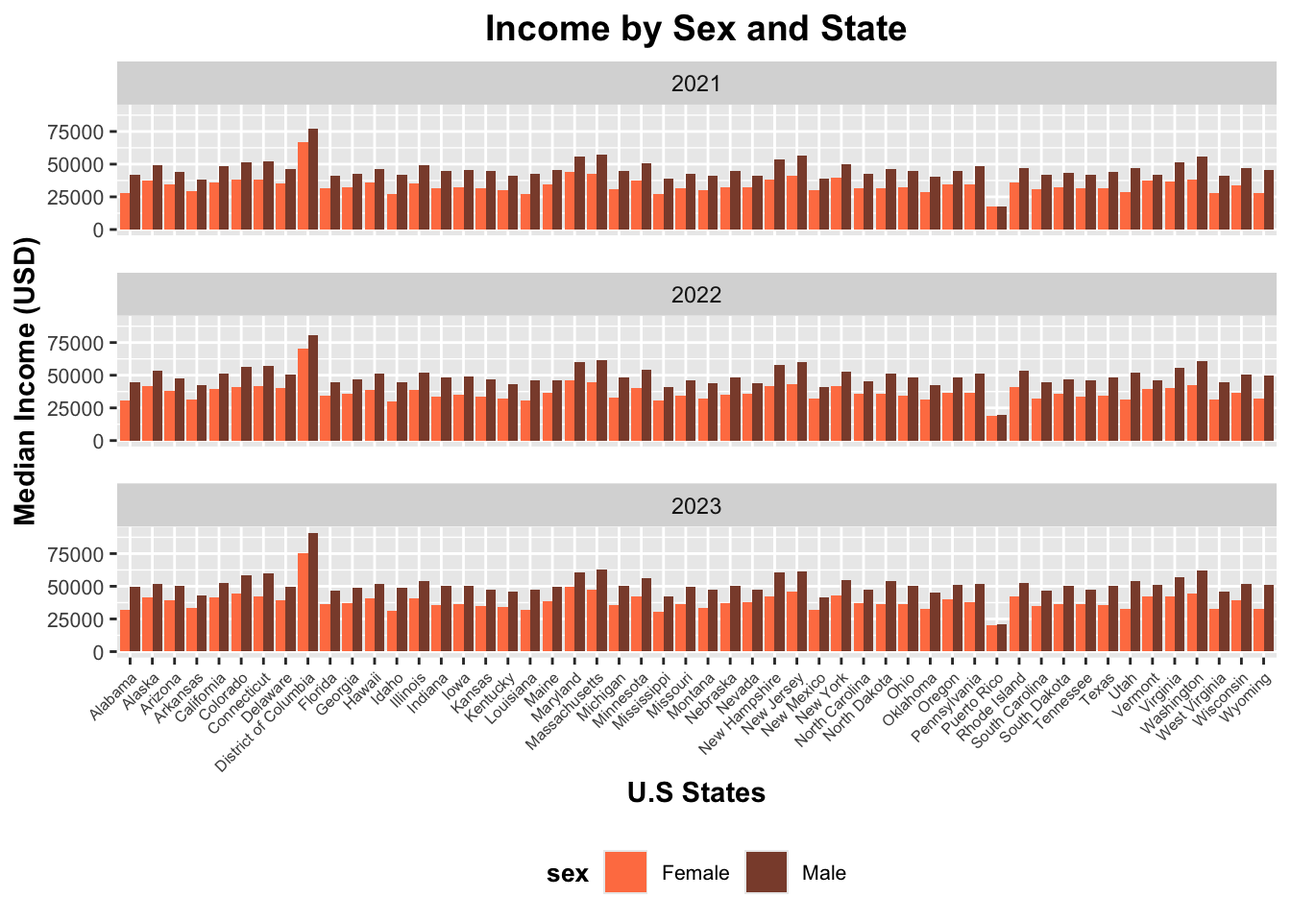
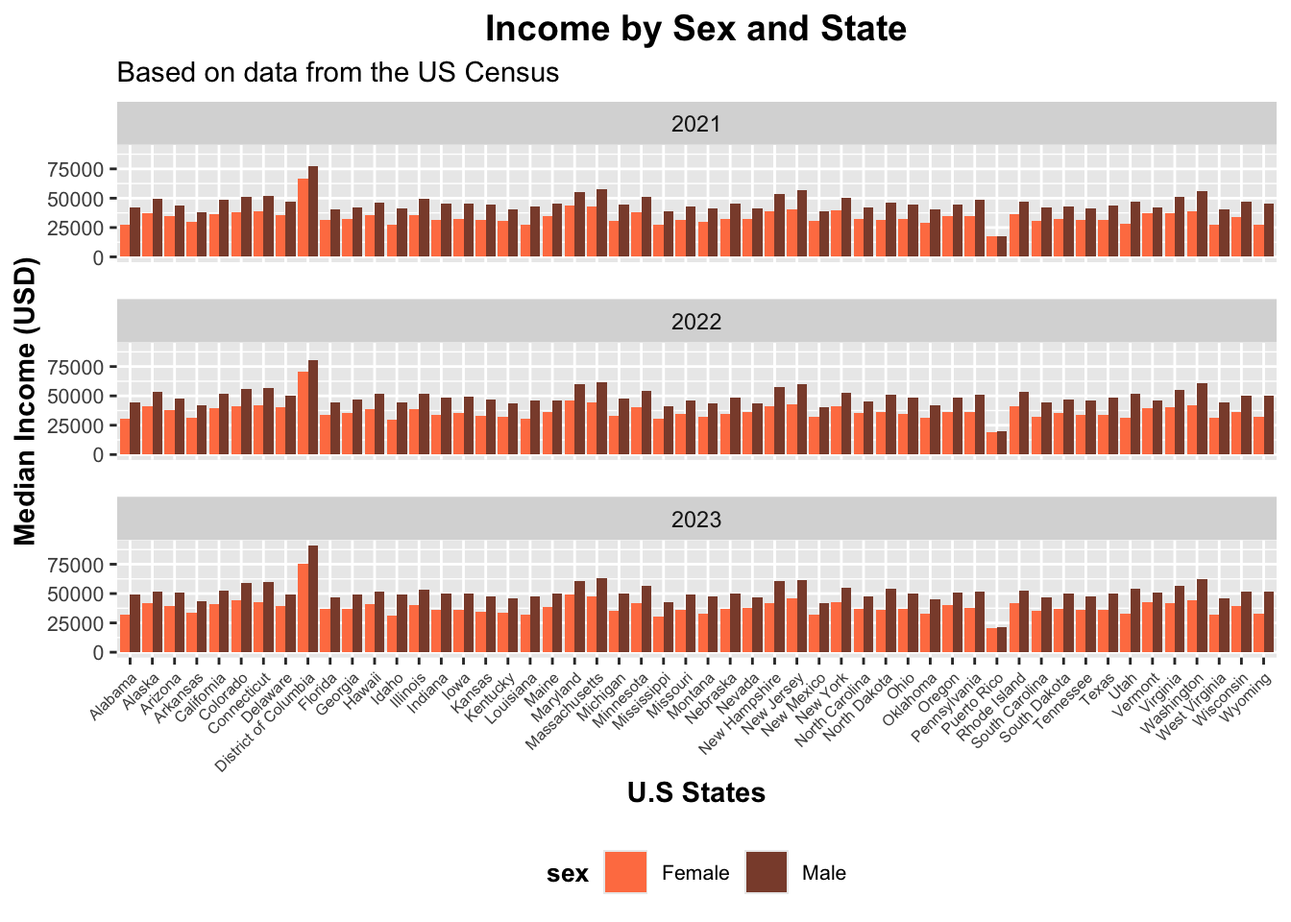
Part 1 Section 4 Edit captions

Changed region(s): [[0.0, 0.0625, 1.0, 0.6875]]

diff --git a/Project 2.html b/Project 2.html
@@ -349,24 +349,26 @@ The 1-year ACS provides data for geographies with populations of 65,000 and grea
 <span id="cb29-11"><a href="#cb29-11" aria-hidden="true" tabindex="-1"></a>  <span class="fu">geom_bar</span>(<span class="at">stat =</span> <span class="st">"identity"</span>, <span class="at">position =</span> <span class="st">"dodge"</span>) <span class="sc">+</span></span>
 <span id="cb29-12"><a href="#cb29-12" aria-hidden="true" tabindex="-1"></a>  <span class="fu">facet_wrap</span>(<span class="sc">~</span>year, <span class="at">ncol =</span> <span class="dv">1</span>) <span class="sc">+</span>  <span class="co"># Ensure facets are in one row</span></span>
 <span id="cb29-13"><a href="#cb29-13" aria-hidden="true" tabindex="-1"></a>  <span class="fu">labs</span>(<span class="at">title =</span> <span class="st">"Income by Sex and State"</span>, </span>
-<span id="cb29-14"><a href="#cb29-14" aria-hidden="true" tabindex="-1"></a>       <span class="at">x =</span> <span class="st">"U.S States"</span>, </span>
-<span id="cb29-15"><a href="#cb29-15" aria-hidden="true" tabindex="-1"></a>       <span class="at">y =</span> <span class="st">"Median Income (USD)"</span>) <span class="sc">+</span></span>
-<span id="cb29-16"><a href="#cb29-16" aria-hidden="true" tabindex="-1"></a>  <span class="fu">scale_x_discrete</span>(<span class="at">labels =</span> <span class="cf">function</span>(x) <span class="fu">str_wrap</span>(x, <span class="at">width =</span> <span class="dv">25</span>)) <span class="sc">+</span> </span>
-<span id="cb29-17"><a href="#cb29-17" aria-hidden="true" tabindex="-1"></a>  <span class="fu">scale_fill_manual</span>(</span>
-<span id="cb29-18"><a href="#cb29-18" aria-hidden="true" tabindex="-1"></a>    <span class="at">values =</span> <span class="fu">c</span>(<span class="st">"female_income"</span> <span class="ot">=</span> <span class="st">"coral"</span>, <span class="st">"male_income"</span> <span class="ot">=</span> <span class="st">"salmon4"</span>),</span>
-<span id="cb29-19"><a href="#cb29-19" aria-hidden="true" tabindex="-1"></a>    <span class="at">labels =</span> <span class="fu">c</span>(<span class="st">"Female"</span>, <span class="st">"Male"</span>)</span>
-<span id="cb29-20"><a href="#cb29-20" aria-hidden="true" tabindex="-1"></a>  ) <span class="sc">+</span></span>
-<span id="cb29-21"><a href="#cb29-21" aria-hidden="true" tabindex="-1"></a>  <span class="fu">theme_grey</span>() <span class="sc">+</span></span>
-<span id="cb29-22"><a href="#cb29-22" aria-hidden="true" tabindex="-1"></a>  <span class="fu">theme</span>(</span>
-<span id="cb29-23"><a href="#cb29-23" aria-hidden="true" tabindex="-1"></a>    <span class="at">plot.title =</span> <span class="fu">element_text</span>(<span class="at">size =</span> <span class="dv">14</span>, <span class="at">face =</span> <span class="st">"bold"</span>, <span class="at">hjust =</span> <span class="fl">0.5</span>),</span>
-<span id="cb29-24"><a href="#cb29-24" aria-hidden="true" tabindex="-1"></a>    <span class="at">axis.title =</span> <span class="fu">element_text</span>(<span class="at">size =</span> <span class="dv">11</span>, <span class="at">face =</span> <span class="st">"bold"</span>),</span>
-<span id="cb29-25"><a href="#cb29-25" aria-hidden="true" tabindex="-1"></a>    <span class="at">axis.text.x =</span> <span class="fu">element_text</span>(<span class="at">size =</span> <span class="dv">6</span>, <span class="at">angle =</span> <span class="dv">45</span>, <span class="at">hjust =</span> <span class="dv">1</span>),  </span>
-<span id="cb29-26"><a href="#cb29-26" aria-hidden="true" tabindex="-1"></a>    <span class="at">axis.text.y =</span> <span class="fu">element_text</span>(<span class="at">size =</span> <span class="dv">8</span>),</span>
-<span id="cb29-27"><a href="#cb29-27" aria-hidden="true" tabindex="-1"></a>    <span class="at">legend.text =</span> <span class="fu">element_text</span>(<span class="at">size =</span> <span class="dv">8</span>),</span>
-<span id="cb29-28"><a href="#cb29-28" aria-hidden="true" tabindex="-1"></a>    <span class="at">legend.title =</span> <span class="fu">element_text</span>(<span class="at">size =</span> <span class="dv">10</span>, <span class="at">face =</span> <span class="st">"bold"</span>),</span>
-<span id="cb29-29"><a href="#cb29-29" aria-hidden="true" tabindex="-1"></a>    <span class="at">legend.position =</span> <span class="st">"bottom"</span>,</span>
-<span id="cb29-30"><a href="#cb29-30" aria-hidden="true" tabindex="-1"></a>    <span class="at">panel.spacing =</span> <span class="fu">unit</span>(<span class="dv">1</span>, <span class="st">"lines"</span>)</span>
-<span id="cb29-31"><a href="#cb29-31" aria-hidden="true" tabindex="-1"></a>  )</span></code><button title="Copy to Clipboard" class="code-copy-button"><i class="bi"></i></button></pre></div>
+<span id="cb29-14"><a href="#cb29-14" aria-hidden="true" tabindex="-1"></a>       <span class="at">subtitle =</span> <span class="st">"Based on data from the US Census"</span>,</span>
+<span id="cb29-15"><a href="#cb29-15" aria-hidden="true" tabindex="-1"></a>       <span class="at">figure =</span> <span class="st">"Figure created by: Amanda and Da-Yea"</span>, </span>
+<span id="cb29-16"><a href="#cb29-16" aria-hidden="true" tabindex="-1"></a>       <span class="at">x =</span> <span class="st">"U.S States"</span>, </span>
+<span id="cb29-17"><a href="#cb29-17" aria-hidden="true" tabindex="-1"></a>       <span class="at">y =</span> <span class="st">"Median Income (USD)"</span>) <span class="sc">+</span></span>
+<span id="cb29-18"><a href="#cb29-18" aria-hidden="true" tabindex="-1"></a>  <span class="fu">scale_x_discrete</span>(<span class="at">labels =</span> <span class="cf">function</span>(x) <span class="fu">str_wrap</span>(x, <span class="at">width =</span> <span class="dv">25</span>)) <span class="sc">+</span> </span>
+<span id="cb29-19"><a href="#cb29-19" aria-hidden="true" tabindex="-1"></a>  <span class="fu">scale_fill_manual</span>(</span>
+<span id="cb29-20"><a href="#cb29-20" aria-hidden="true" tabindex="-1"></a>    <span class="at">values =</span> <span class="fu">c</span>(<span class="st">"female_income"</span> <span class="ot">=</span> <span class="st">"coral"</span>, <span class="st">"male_income"</span> <span class="ot">=</span> <span class="st">"salmon4"</span>),</span>
+<span id="cb29-21"><a href="#cb29-21" aria-hidden="true" tabindex="-1"></a>    <span class="at">labels =</span> <span class="fu">c</span>(<span class="st">"Female"</span>, <span class="st">"Male"</span>)</span>
+<span id="cb29-22"><a href="#cb29-22" aria-hidden="true" tabindex="-1"></a>  ) <span class="sc">+</span></span>
+<span id="cb29-23"><a href="#cb29-23" aria-hidden="true" tabindex="-1"></a>  <span class="fu">theme_grey</span>() <span class="sc">+</span></span>
+<span id="cb29-24"><a href="#cb29-24" aria-hidden="true" tabindex="-1"></a>  <span class="fu">theme</span>(</span>
+<span id="cb29-25"><a href="#cb29-25" aria-hidden="true" tabindex="-1"></a>    <span class="at">plot.title =</span> <span class="fu">element_text</span>(<span class="at">size =</span> <span class="dv">14</span>, <span class="at">face =</span> <span class="st">"bold"</span>, <span class="at">hjust =</span> <span class="fl">0.5</span>),</span>
+<span id="cb29-26"><a href="#cb29-26" aria-hidden="true" tabindex="-1"></a>    <span class="at">axis.title =</span> <span class="fu">element_text</span>(<span class="at">size =</span> <span class="dv">11</span>, <span class="at">face =</span> <span class="st">"bold"</span>),</span>
+<span id="cb29-27"><a href="#cb29-27" aria-hidden="true" tabindex="-1"></a>    <span class="at">axis.text.x =</span> <span class="fu">element_text</span>(<span class="at">size =</span> <span class="dv">6</span>, <span class="at">angle =</span> <span class="dv">45</span>, <span class="at">hjust =</span> <span class="dv">1</span>),  </span>
+<span id="cb29-28"><a href="#cb29-28" aria-hidden="true" tabindex="-1"></a>    <span class="at">axis.text.y =</span> <span class="fu">element_text</span>(<span class="at">size =</span> <span class="dv">8</span>),</span>
+<span id="cb29-29"><a href="#cb29-29" aria-hidden="true" tabindex="-1"></a>    <span class="at">legend.text =</span> <span class="fu">element_text</span>(<span class="at">size =</span> <span class="dv">8</span>),</span>
+<span id="cb29-30"><a href="#cb29-30" aria-hidden="true" tabindex="-1"></a>    <span class="at">legend.title =</span> <span class="fu">element_text</span>(<span class="at">size =</span> <span class="dv">10</span>, <span class="at">face =</span> <span class="st">"bold"</span>),</span>
+<span id="cb29-31"><a href="#cb29-31" aria-hidden="true" tabindex="-1"></a>    <span class="at">legend.position =</span> <span class="st">"bottom"</span>,</span>
+<span id="cb29-32"><a href="#cb29-32" aria-hidden="true" tabindex="-1"></a>    <span class="at">panel.spacing =</span> <span class="fu">unit</span>(<span class="dv">1</span>, <span class="st">"lines"</span>)</span>
+<span id="cb29-33"><a href="#cb29-33" aria-hidden="true" tabindex="-1"></a>  )</span></code><button title="Copy to Clipboard" class="code-copy-button"><i class="bi"></i></button></pre></div>
 <div class="cell-output-display">
 <div>
 <figure class="figure">
@@ -384,17 +386,19 @@ The 1-year ACS provides data for geographies with populations of 65,000 and grea
 <span id="cb30-6"><a href="#cb30-6" aria-hidden="true" tabindex="-1"></a><span class="fu">ggplot</span>(income_total_2023, <span class="fu">aes</span>(<span class="at">x =</span> NAME, <span class="at">y =</span> income_difference)) <span class="sc">+</span>  <span class="co"># Don't map fill to NAME</span></span>
 <span id="cb30-7"><a href="#cb30-7" aria-hidden="true" tabindex="-1"></a>  <span class="fu">geom_col</span>(<span class="at">fill =</span> <span class="st">"lightsteelblue2"</span>) <span class="sc">+</span>  <span class="co"># Set all bars to the color you want</span></span>
 <span id="cb30-8"><a href="#cb30-8" aria-hidden="true" tabindex="-1"></a>  <span class="fu">labs</span>(<span class="at">title =</span> <span class="st">"Income Difference by State"</span>, </span>
-<span id="cb30-9"><a href="#cb30-9" aria-hidden="true" tabindex="-1"></a>       <span class="at">x =</span> <span class="st">"U.S States"</span>, </span>
-<span id="cb30-10"><a href="#cb30-10" aria-hidden="true" tabindex="-1"></a>       <span class="at">y =</span> <span class="st">"Income Difference (USD)"</span>) <span class="sc">+</span></span>
-<span id="cb30-11"><a href="#cb30-11" aria-hidden="true" tabindex="-1"></a>  <span class="fu">scale_x_discrete</span>(<span class="at">labels =</span> <span class="cf">function</span>(x) <span class="fu">str_wrap</span>(x, <span class="at">width =</span> <span class="dv">25</span>)) <span class="sc">+</span>  <span class="co"># Wrap state names if needed</span></span>
-<span id="cb30-12"><a href="#cb30-12" aria-hidden="true" tabindex="-1"></a>  <span class="fu">theme_minimal</span>() <span class="sc">+</span></span>
-<span id="cb30-13"><a href="#cb30-13" aria-hidden="true" tabindex="-1"></a>  <span class="fu">theme</span>(</span>
-<span id="cb30-14"><a href="#cb30-14" aria-hidden="true" tabindex="-1"></a>    <span class="at">plot.title =</span> <span class="fu">element_text</span>(<span class="at">size =</span> <span class="dv">14</span>, <span class="at">face =</span> <span class="st">"bold"</span>, <span class="at">hjust =</span> <span class="fl">0.5</span>),</span>
-<span id="cb30-15"><a href="#cb30-15" aria-hidden="true" tabindex="-1"></a>    <span class="at">axis.title =</span> <span class="fu">element_text</span>(<span class="at">size =</span> <span class="dv">11</span>, <span class="at">face =</span> <span class="st">"bold"</span>),</span>
-<span id="cb30-16"><a href="#cb30-16" aria-hidden="true" tabindex="-1"></a>    <span class="at">axis.text.x =</span> <span class="fu">element_text</span>(<span class="at">size =</span> <span class="dv">7</span>, <span class="at">angle =</span> <span class="dv">45</span>, <span class="at">hjust =</span> <span class="dv">1</span>),  </span>
-<span id="cb30-17"><a href="#cb30-17" aria-hidden="true" tabindex="-1"></a>    <span class="at">axis.text.y =</span> <span class="fu">element_text</span>(<span class="at">size =</span> <span class="dv">8</span>),</span>
-<span id="cb30-18"><a href="#cb30-18" aria-hidden="true" tabindex="-1"></a>    <span class="at">panel.spacing =</span> <span class="fu">unit</span>(<span class="dv">1</span>, <span class="st">"lines"</span>)</span>
-<span id="cb30-19"><a href="#cb30-19" aria-hidden="true" tabindex="-1"></a>)</span></code><button title="Copy to Clipboard" class="code-copy-button"><i class="bi"></i></button></pre></div>
+<span id="cb30-9"><a href="#cb30-9" aria-hidden="true" tabindex="-1"></a>       <span class="at">subtitle =</span> <span class="st">"Based on data from the US Census"</span>,</span>
+<span id="cb30-10"><a href="#cb30-10" aria-hidden="true" tabindex="-1"></a>       <span class="at">figure =</span> <span class="st">"Figure created by: Amanda and Da-Yea"</span>, </span>
+<span id="cb30-11"><a href="#cb30-11" aria-hidden="true" tabindex="-1"></a>       <span class="at">x =</span> <span class="st">"U.S States"</span>, </span>
+<span id="cb30-12"><a href="#cb30-12" aria-hidden="true" tabindex="-1"></a>       <span class="at">y =</span> <span class="st">"Income Difference (USD)"</span>) <span class="sc">+</span></span>
+<span id="cb30-13"><a href="#cb30-13" aria-hidden="true" tabindex="-1"></a>  <span class="fu">scale_x_discrete</span>(<span class="at">labels =</span> <span class="cf">function</span>(x) <span class="fu">str_wrap</span>(x, <span class="at">width =</span> <span class="dv">25</span>)) <span class="sc">+</span>  <span class="co"># Wrap state names if needed</span></span>
+<span id="cb30-14"><a href="#cb30-14" aria-hidden="true" tabindex="-1"></a>  <span class="fu">theme_minimal</span>() <span class="sc">+</span></span>
+<span id="cb30-15"><a href="#cb30-15" aria-hidden="true" tabindex="-1"></a>  <span class="fu">theme</span>(</span>
+<span id="cb30-16"><a href="#cb30-16" aria-hidden="true" tabindex="-1"></a>    <span class="at">plot.title =</span> <span class="fu">element_text</span>(<span class="at">size =</span> <span class="dv">14</span>, <span class="at">face =</span> <span class="st">"bold"</span>, <span class="at">hjust =</span> <span class="fl">0.5</span>),</span>
+<span id="cb30-17"><a href="#cb30-17" aria-hidden="true" tabindex="-1"></a>    <span class="at">axis.title =</span> <span class="fu">element_text</span>(<span class="at">size =</span> <span class="dv">11</span>, <span class="at">face =</span> <span class="st">"bold"</span>),</span>
+<span id="cb30-18"><a href="#cb30-18" aria-hidden="true" tabindex="-1"></a>    <span class="at">axis.text.x =</span> <span class="fu">element_text</span>(<span class="at">size =</span> <span class="dv">7</span>, <span class="at">angle =</span> <span class="dv">45</span>, <span class="at">hjust =</span> <span class="dv">1</span>),  </span>
+<span id="cb30-19"><a href="#cb30-19" aria-hidden="true" tabindex="-1"></a>    <span class="at">axis.text.y =</span> <span class="fu">element_text</span>(<span class="at">size =</span> <span class="dv">8</span>),</span>
+<span id="cb30-20"><a href="#cb30-20" aria-hidden="true" tabindex="-1"></a>    <span class="at">panel.spacing =</span> <span class="fu">unit</span>(<span class="dv">1</span>, <span class="st">"lines"</span>)</span>
+<span id="cb30-21"><a href="#cb30-21" aria-hidden="true" tabindex="-1"></a>)</span></code><button title="Copy to Clipboard" class="code-copy-button"><i class="bi"></i></button></pre></div>
 <div class="cell-output-display">
 <div>
 <figure class="figure">
@@ -410,20 +414,22 @@ The 1-year ACS provides data for geographies with populations of 65,000 and grea
 <span id="cb31-4"><a href="#cb31-4" aria-hidden="true" tabindex="-1"></a>  <span class="fu">geom_point</span>(<span class="at">size =</span> <span class="dv">2</span>) <span class="sc">+</span></span>
 <span id="cb31-5"><a href="#cb31-5" aria-hidden="true" tabindex="-1"></a>  <span class="fu">labs</span>(</span>
 <span id="cb31-6"><a href="#cb31-6" aria-hidden="true" tabindex="-1"></a>    <span class="at">title =</span> <span class="st">"Income Difference Across Years by State"</span>,</span>
-<span id="cb31-7"><a href="#cb31-7" aria-hidden="true" tabindex="-1"></a>    <span class="at">x =</span> <span class="st">"Year"</span>,</span>
-<span id="cb31-8"><a href="#cb31-8" aria-hidden="true" tabindex="-1"></a>    <span class="at">y =</span> <span class="st">"Income Difference (USD)"</span></span>
-<span id="cb31-9"><a href="#cb31-9" aria-hidden="true" tabindex="-1"></a>  ) <span class="sc">+</span></span>
-<span id="cb31-10"><a href="#cb31-10" aria-hidden="true" tabindex="-1"></a>  <span class="fu">scale_y_continuous</span>(<span class="at">labels =</span> scales<span class="sc">::</span>comma) <span class="sc">+</span></span>
-<span id="cb31-11"><a href="#cb31-11" aria-hidden="true" tabindex="-1"></a>  <span class="fu">theme_minimal</span>() <span class="sc">+</span></span>
-<span id="cb31-12"><a href="#cb31-12" aria-hidden="true" tabindex="-1"></a>  <span class="fu">theme</span>(</span>
-<span id="cb31-13"><a href="#cb31-13" aria-hidden="true" tabindex="-1"></a>    <span class="at">plot.title =</span> <span class="fu">element_text</span>(<span class="at">size =</span> <span class="dv">14</span>, <span class="at">face =</span> <span class="st">"bold"</span>, <span class="at">hjust =</span> <span class="fl">0.5</span>),</span>
-<span id="cb31-14"><a href="#cb31-14" aria-hidden="true" tabindex="-1"></a>    <span class="at">axis.title =</span> <span class="fu">element_text</span>(<span class="at">size =</span> <span class="dv">12</span>,<span class="at">face =</span> <span class="st">"bold"</span>),</span>
-<span id="cb31-15"><a href="#cb31-15" aria-hidden="true" tabindex="-1"></a>    <span class="at">axis.text.x =</span> <span class="fu">element_text</span>(<span class="at">size =</span> <span class="dv">6</span>),</span>
-<span id="cb31-16"><a href="#cb31-16" aria-hidden="true" tabindex="-1"></a>    <span class="at">axis.text.y =</span> <span class="fu">element_text</span>(<span class="at">size =</span> <span class="dv">6</span>),</span>
-<span id="cb31-17"><a href="#cb31-17" aria-hidden="true" tabindex="-1"></a>    <span class="at">strip.text =</span> <span class="fu">element_text</span>(<span class="at">size =</span> <span class="dv">8</span>), </span>
-<span id="cb31-18"><a href="#cb31-18" aria-hidden="true" tabindex="-1"></a>    <span class="at">legend.position =</span> <span class="st">"none"</span></span>
-<span id="cb31-19"><a href="#cb31-19" aria-hidden="true" tabindex="-1"></a>  ) <span class="sc">+</span></span>
-<span id="cb31-20"><a href="#cb31-20" aria-hidden="true" tabindex="-1"></a>  <span class="fu">facet_wrap</span>(<span class="sc">~</span> NAME, <span class="at">ncol =</span> <span class="dv">7</span>) </span></code><button title="Copy to Clipboard" class="code-copy-button"><i class="bi"></i></button></pre></div>
+<span id="cb31-7"><a href="#cb31-7" aria-hidden="true" tabindex="-1"></a>    <span class="at">subtitle =</span> <span class="st">"Based on data from the US Census"</span>,</span>
+<span id="cb31-8"><a href="#cb31-8" aria-hidden="true" tabindex="-1"></a>    <span class="at">figure =</span> <span class="st">"Figure created by: Amanda and Da-Yea"</span>, </span>
+<span id="cb31-9"><a href="#cb31-9" aria-hidden="true" tabindex="-1"></a>    <span class="at">x =</span> <span class="st">"Year"</span>,</span>
+<span id="cb31-10"><a href="#cb31-10" aria-hidden="true" tabindex="-1"></a>    <span class="at">y =</span> <span class="st">"Income Difference (USD)"</span></span>
+<span id="cb31-11"><a href="#cb31-11" aria-hidden="true" tabindex="-1"></a>  ) <span class="sc">+</span></span>
+<span id="cb31-12"><a href="#cb31-12" aria-hidden="true" tabindex="-1"></a>  <span class="fu">scale_y_continuous</span>(<span class="at">labels =</span> scales<span class="sc">::</span>comma) <span class="sc">+</span></span>
+<span id="cb31-13"><a href="#cb31-13" aria-hidden="true" tabindex="-1"></a>  <span class="fu">theme_minimal</span>() <span class="sc">+</span></span>
+<span id="cb31-14"><a href="#cb31-14" aria-hidden="true" tabindex="-1"></a>  <span class="fu">theme</span>(</span>
+<span id="cb31-15"><a href="#cb31-15" aria-hidden="true" tabindex="-1"></a>    <span class="at">plot.title =</span> <span class="fu">element_text</span>(<span class="at">size =</span> <span class="dv">14</span>, <span class="at">face =</span> <span class="st">"bold"</span>, <span class="at">hjust =</span> <span class="fl">0.5</span>),</span>
+<span id="cb31-16"><a href="#cb31-16" aria-hidden="true" tabindex="-1"></a>    <span class="at">axis.title =</span> <span class="fu">element_text</span>(<span class="at">size =</span> <span class="dv">12</span>,<span class="at">face =</span> <span class="st">"bold"</span>),</span>
+<span id="cb31-17"><a href="#cb31-17" aria-hidden="true" tabindex="-1"></a>    <span class="at">axis.text.x =</span> <span class="fu">element_text</span>(<span class="at">size =</span> <span class="dv">6</span>),</span>
+<span id="cb31-18"><a href="#cb31-18" aria-hidden="true" tabindex="-1"></a>    <span class="at">axis.text.y =</span> <span class="fu">element_text</span>(<span class="at">size =</span> <span class="dv">6</span>),</span>
+<span id="cb31-19"><a href="#cb31-19" aria-hidden="true" tabindex="-1"></a>    <span class="at">strip.text =</span> <span class="fu">element_text</span>(<span class="at">size =</span> <span class="dv">8</span>), </span>
+<span id="cb31-20"><a href="#cb31-20" aria-hidden="true" tabindex="-1"></a>    <span class="at">legend.position =</span> <span class="st">"none"</span></span>
+<span id="cb31-21"><a href="#cb31-21" aria-hidden="true" tabindex="-1"></a>  ) <span class="sc">+</span></span>
+<span id="cb31-22"><a href="#cb31-22" aria-hidden="true" tabindex="-1"></a>  <span class="fu">facet_wrap</span>(<span class="sc">~</span> NAME, <span class="at">ncol =</span> <span class="dv">7</span>) </span></code><button title="Copy to Clipboard" class="code-copy-button"><i class="bi"></i></button></pre></div>
 <div class="cell-output cell-output-stderr">
 <pre><code>Warning: Using `size` aesthetic for lines was deprecated in ggplot2 3.4.0.
 ℹ Please use `linewidth` instead.</code></pre>
@@ -436,7 +442,10 @@ The 1-year ACS provides data for geographies with populations of 65,000 and grea
 </div>
 </div>
 </div>
-<p>Report your findings. Provide a paragraph summarizing your methods and key findings. Include any limitations or potential biases in pulling data from the API or the analysis. Be sure to comment and organize your code so is easy to understand what you are doing.</p>
+<ol start="5" type="1">
+<li>Report your findings. Provide a paragraph summarizing your methods and key findings. Include any limitations or potential biases in pulling data from the API or the analysis. Be sure to comment and organize your code so is easy to understand what you are doing.</li>
+</ol>
+<p><em>Data cleaning</em>: <br> - <code>mutate()</code> from dplyr to create year column <br> - <code>map_dfr()</code> from purrr to combine datasets - <code>select()</code> from dplyr to remove columns - <code>pivot_wider()</code> from tidyr to reorganize data - <code>pmap_dbl()</code> from purrr to calculate income difference - <code>arrange()</code> from dplyr to reorder the table <em>Visualize</em>: <br> - <code>geom_bar()</code> to plot the income by sex and states (2021-2023) - <code>geom_col()</code> to plot income difference by sex and states (2023) - <code>geom_line()</code> to plot income differences across years and state</p>
 </section>
 <section id="part-2" class="level2">
 <h2 class="anchored" data-anchor-id="part-2">Part 2</h2>
@@ -607,18 +616,16 @@ The 1-year ACS provides data for geographies with populations of 65,000 and grea
 <span id="cb49-3"><a href="#cb49-3" aria-hidden="true" tabindex="-1"></a>  <span class="at">freq =</span> <span class="fu">as.integer</span>(<span class="fu">table</span>(michelin_table<span class="sc">$</span>cuisine)) </span>
 <span id="cb49-4"><a href="#cb49-4" aria-hidden="true" tabindex="-1"></a>)</span>
 <span id="cb49-5"><a href="#cb49-5" aria-hidden="true" tabindex="-1"></a></span>
-<span id="cb49-6"><a href="#cb49-6" aria-hidden="true" tabindex="-1"></a><span class="co"># Create the word cloud and save it to an HTML file</span></span>
-<span id="cb49-7"><a href="#cb49-7" aria-hidden="true" tabindex="-1"></a><span class="fu">saveWidget</span>(</span>
-<span id="cb49-8"><a href="#cb49-8" aria-hidden="true" tabindex="-1"></a>  <span class="fu">wordcloud2</span>(cuisine_wordcloud, </span>
-<span id="cb49-9"><a href="#cb49-9" aria-hidden="true" tabindex="-1"></a>             <span class="at">color =</span> <span class="fu">wes_palette</span>(<span class="st">"GrandBudapest2"</span>), <span class="co"># Word color</span></span>
-<span id="cb49-10"><a href="#cb49-10" aria-hidden="true" tabindex="-1"></a>             <span class="at">backgroundColor =</span> <span class="st">"lavenderblush"</span>, <span class="co"># Background color</span></span>
-<span id="cb49-11"><a href="#cb49-11" aria-hidden="true" tabindex="-1"></a>             <span class="at">size =</span> <span class="fl">0.5</span>, <span class="co"># Size</span></span>
-<span id="cb49-12"><a href="#cb49-12" aria-hidden="true" tabindex="-1"></a>             <span class="at">minRotation =</span> <span class="dv">0</span>, <span class="at">maxRotation =</span> <span class="dv">0</span>), <span class="co"># Horizontal orientation</span></span>
-<span id="cb49-13"><a href="#cb49-13" aria-hidden="true" tabindex="-1"></a>  <span class="st">"cuisine_wordcloud.html"</span>  <span class="co"># Save as HTML file</span></span>
-<span id="cb49-14"><a href="#cb49-14" aria-hidden="true" tabindex="-1"></a>)</span>
-<span id="cb49-15"><a href="#cb49-15" aria-hidden="true" tabindex="-1"></a></span>
-<span id="cb49-16"><a href="#cb49-16" aria-hidden="true" tabindex="-1"></a><span class="co"># Display the word cloud using iframe in RStudio Viewer or Shiny</span></span>
-<span id="cb49-17"><a href="#cb49-17" aria-hidden="true" tabindex="-1"></a>htmltools<span class="sc">::</span>tags<span class="sc">$</span><span class="fu">iframe</span>(<span class="at">src =</span> <span class="st">"cuisine_wordcloud.html"</span>, <span class="at">width =</span> <span class="st">"100%"</span>, <span class="at">height =</span> <span class="st">"500px"</span>)</span></code><button title="Copy to Clipboard" class="code-copy-button"><i class="bi"></i></button></pre></div>
+<span id="cb49-6"><a href="#cb49-6" aria-hidden="true" tabindex="-1"></a><span class="fu">saveWidget</span>(</span>
+<span id="cb49-7"><a href="#cb49-7" aria-hidden="true" tabindex="-1"></a>  <span class="fu">wordcloud2</span>(cuisine_wordcloud, </span>
+<span id="cb49-8"><a href="#cb49-8" aria-hidden="true" tabindex="-1"></a>             <span class="at">color =</span> <span class="fu">wes_palette</span>(<span class="st">"GrandBudapest2"</span>),</span>
+<span id="cb49-9"><a href="#cb49-9" aria-hidden="true" tabindex="-1"></a>             <span class="at">backgroundColor =</span> <span class="st">"lavenderblush"</span>, </span>
+<span id="cb49-10"><a href="#cb49-10" aria-hidden="true" tabindex="-1"></a>             <span class="at">size =</span> <span class="fl">0.5</span>, </span>
+<span id="cb49-11"><a href="#cb49-11" aria-hidden="true" tabindex="-1"></a>             <span class="at">minRotation =</span> <span class="dv">0</span>, <span class="at">maxRotation =</span> <span class="dv">0</span>), </span>
+<span id="cb49-12"><a href="#cb49-12" aria-hidden="true" tabindex="-1"></a>  <span class="st">"cuisine_wordcloud.html"</span>  </span>
+<span id="cb49-13"><a href="#cb49-13" aria-hidden="true" tabindex="-1"></a>)</span>
+<span id="cb49-14"><a href="#cb49-14" aria-hidden="true" tabindex="-1"></a></span>
+<span id="cb49-15"><a href="#cb49-15" aria-hidden="true" tabindex="-1"></a>htmltools<span class="sc">::</span>tags<span class="sc">$</span><span class="fu">iframe</span>(<span class="at">src =</span> <span class="st">"cuisine_wordcloud.html"</span>, <span class="at">width =</span> <span class="st">"100%"</span>, <span class="at">height =</span> <span class="st">"500px"</span>)</span></code><button title="Copy to Clipboard" class="code-copy-button"><i class="bi"></i></button></pre></div>
 <div class="cell-output-display">
 <iframe src="cuisine_wordcloud.html" width="100%" height="500px"></iframe>
 </div>

diff --git a/cuisine_wordcloud.html b/cuisine_wordcloud.html
@@ -2264,9 +2264,9 @@ function maskInit(el,x){
 </head>
 <body style="background-color: white;">
 <div id="htmlwidget_container">
-  <div class="wordcloud2 html-widget html-fill-item" id="htmlwidget-86a29999dec24ffec325" style="width:100%;height:338px;"></div>
+  <div class="wordcloud2 html-widget html-fill-item" id="htmlwidget-dd92e236921c39763beb" style="width:100%;height:338px;"></div>
 </div>
-<script type="application/json" data-for="htmlwidget-86a29999dec24ffec325">{"x":{"word":["American","Asian","Austrian","Contemporary","English","French","French contemporary","Fusion","Indian","Israeli","Italian","Japanese","Korean","Mediterranean","Mexican","New American","Reference","Scandinavian","Seafood","Spanish","Steakhouse","Vegan[a]","Vegetarian"],"freq":[3,1,1,21,1,7,2,1,1,1,6,22,11,2,3,2,1,2,3,1,1,1,1],"fontFamily":"Segoe UI","fontWeight":"bold","color":["#E6A0C4","#C6CDF7","#D8A499","#7294D4"],"minSize":0,"weightFactor":4.090909090909091,"backgroundColor":"lavenderblush","gridSize":0,"minRotation":0,"maxRotation":0,"shuffle":true,"rotateRatio":0.4,"shape":"circle","ellipticity":0.65,"figBase64":null,"hover":null},"evals":[],"jsHooks":{"render":[{"code":"function(el,x){\n                        console.log(123);\n                        if(!iii){\n                          window.location.reload();\n                          iii = False;\n\n                        }\n  }","data":null}]}}</script>
-<script type="application/htmlwidget-sizing" data-for="htmlwidget-86a29999dec24ffec325">{"viewer":{"width":450,"height":350,"padding":0,"fill":true},"browser":{"width":960,"height":500,"padding":0,"fill":true}}</script>
+<script type="application/json" data-for="htmlwidget-dd92e236921c39763beb">{"x":{"word":["American","Asian","Austrian","Contemporary","English","French","French contemporary","Fusion","Indian","Israeli","Italian","Japanese","Korean","Mediterranean","Mexican","New American","Reference","Scandinavian","Seafood","Spanish","Steakhouse","Vegan[a]","Vegetarian"],"freq":[3,1,1,21,1,7,2,1,1,1,6,22,11,2,3,2,1,2,3,1,1,1,1],"fontFamily":"Segoe UI","fontWeight":"bold","color":["#E6A0C4","#C6CDF7","#D8A499","#7294D4"],"minSize":0,"weightFactor":4.090909090909091,"backgroundColor":"lavenderblush","gridSize":0,"minRotation":0,"maxRotation":0,"shuffle":true,"rotateRatio":0.4,"shape":"circle","ellipticity":0.65,"figBase64":null,"hover":null},"evals":[],"jsHooks":{"render":[{"code":"function(el,x){\n                        console.log(123);\n                        if(!iii){\n                          window.location.reload();\n                          iii = False;\n\n                        }\n  }","data":null}]}}</script>
+<script type="application/htmlwidget-sizing" data-for="htmlwidget-dd92e236921c39763beb">{"viewer":{"width":450,"height":350,"padding":0,"fill":true},"browser":{"width":960,"height":500,"padding":0,"fill":true}}</script>
 </body>
 </html>
